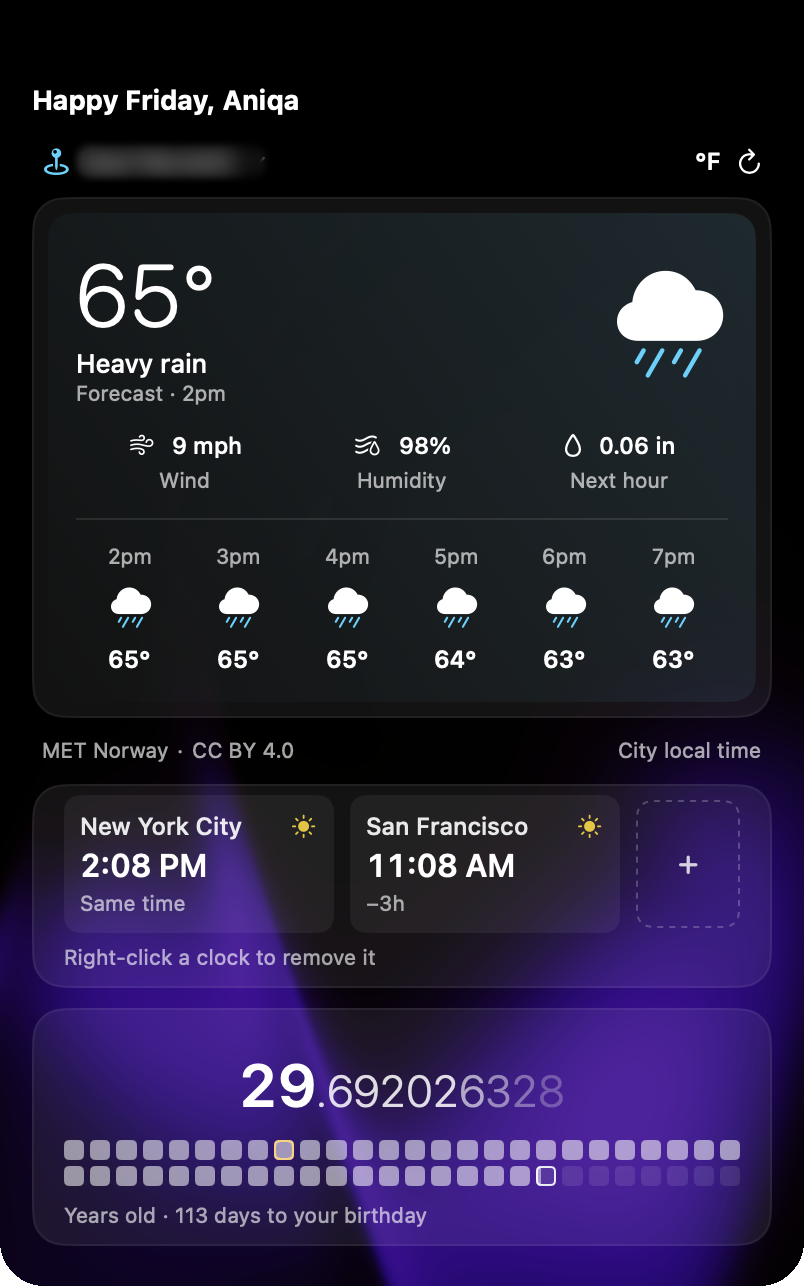
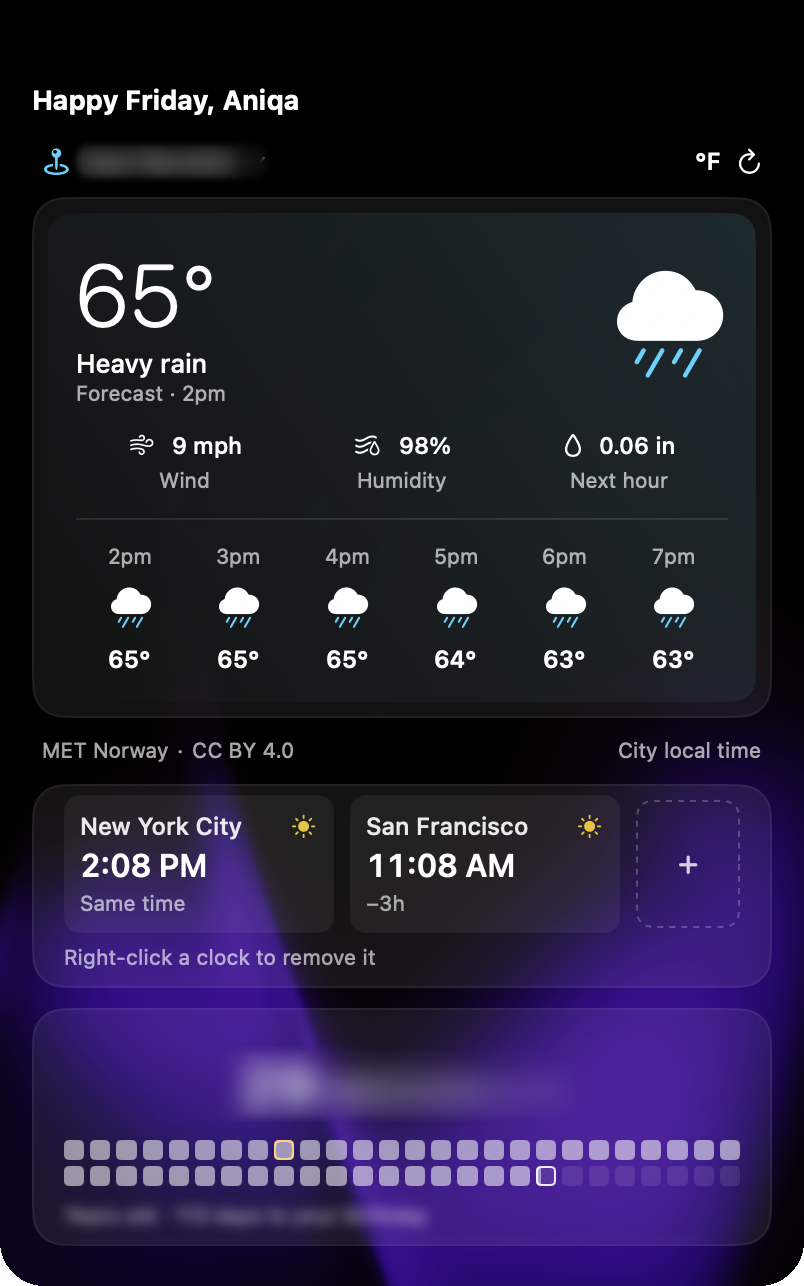
tighten review + new tldr, blur my age in weather pic

Changed region(s): [[0.2799, 0.8087, 0.7152, 0.8709], [0.0622, 0.9331, 0.5286, 0.9642]]

diff --git a/src/content/reviews/notchabove/index.md b/src/content/reviews/notchabove/index.md
@@ -30,65 +30,63 @@ screenshotAlt: 'The NotchAbove pet panel hanging from the notch: a black cat sit
 
 ## TL;DR
 
-I'd always overlooked the notch. I had only kept the time visible in the notch so the menu bar icons on
-the right side could have extra room, and didn't think more of it.
+I never really used the MacBook notch. I didn't even know it could do more than show the time, so it just held my
+clock to give my menu bar icons more room.
 
 NotchAbove fills it with the things I reach for all day: audio switching, my AI coding tools, Git, gentle reminders, a
-shelf for files and a (cute) black cat named Bombay. It's packed with features ![NotchAbove's list of features, each with a blue icon: Output, Auto-Switch, Scenes, Calls, Apps, Focus, Windows, System, Coding, Affirmations, Eyes, Shelf, Clipboard, Todo, World, Camera, Tools, Notes, Pet care, Git, Sales and Games](./feature-list.png 'note: Every feature, from Output to Games') but feels light and native, it's one of
-the few apps that genuinely brings me joy, and it's easy to fit into your workflow. It also freed up my menu bar
-straight away: I deleted Raycast and Vorssaint.
+shelf for files and a (cute) black cat named Bombay. It's packed with features ![NotchAbove's list of features, each with a blue icon: Output, Auto-Switch, Scenes, Calls, Apps, Focus, Windows, System, Coding, Affirmations, Eyes, Shelf, Clipboard, Todo, World, Camera, Tools, Notes, Pet care, Git, Sales and Games](./feature-list.png 'note: Every feature, from Output to Games') but feels light and
+native, it's one of the few apps that genuinely brings me joy, and it's easy to fit into your workflow. It also freed
+up my menu bar straight away: I deleted Raycast and Vorssaint.
 
 ## First look
 
-The download instructions were easy, but I had to take an extra step and strip the quarantine flag before the app would
-open on my MacBook. That's happened with almost every indie or non-App Store app I've tried, so it's not a knock on
-NotchAbove.
+The download instructions were easy, but I had to strip the quarantine flag before it would open on my MacBook.
+That's happened with almost every indie or non-App Store app I've tried, so it's not a knock on NotchAbove.
 
-I first downloaded NotchAbove for the calendar view, volume control, webcam preview and a notch I could style. I
-actually missed that it comes with a dozen other useful features, because I was hooked halfway through the landing
-page and didn't bother reading the rest. That many features would usually overwhelm me, but each one is opt-in ![NotchAbove's Tabs in the notch settings, 15 on: Output, Calls, Apps, Coding and Eyes switched on, and Media, Focus, Windows and Affirmations switched off, each with what it includes underneath](./settings-tabs.png 'note: Switching tabs on and off, 15 on here'), so I
-can easily keep just what I'll use.
+I first downloaded NotchAbove for the calendar view, volume control, webcam preview and a notch I could style. I was
+hooked halfway through the landing page and never read the rest, so I missed a dozen other useful features. That many
+features would usually overwhelm me, but each one is opt-in ![NotchAbove's Tabs in the notch settings, 15 on: Output, Calls, Apps, Coding and Eyes switched on, and Media, Focus, Windows and Affirmations switched off, each with what it includes underneath](./settings-tabs.png 'note: Switching tabs on and off, 15 on here'), so I keep just what I use.
 
-Finding Bombay, a cat companion, was also such a pleasant surprise. Instead of opening my phone for half a
-TikTok between meetings, I can spend that time looking after her, and she peeks out of the notch (if you want her to)
-without being distracting.
+Finding Bombay, a cat companion, was also such a pleasant surprise. Instead of opening my phone for half a TikTok
+between meetings, I can spend that time looking after her, and she peeks out of the notch (if you want her to) without
+being distracting.
 
 ## What I liked
 
 1. **The pet.** I'm a sucker for a good mascot or companion _(you might have noticed the one on this site)_. I like my
    tools minimal, but a well-done Easter egg brings real joy, and the pet care is my favorite part ![Bombay the black cat licking a paw in a rainy room, saying "...thank you. Don't tell anyone.", above the Pet, Feed, Water and Play buttons and today's care rings](./pet-care-rain.png 'note: Bombay on a rainy day, just after a pet').
-   Collecting gifts for Bombay gives me a reason to come back, and it's a healthier break than doomscrolling.
+   Collecting gifts for Bombay gives me a reason to come back and not lose time doomscrolling.
 
    ![NotchAbove's companion picker: Bombay (selected), Turkish Van, Orange Tabby, Silver Tabby, Golden Retriever, Husky, Labrador, Shiba Inu, Capybara, Ghost, Penguin, Baby Dragon, Fox, Bunny, Red Panda and Panda](./companions.png)
    _All sixteen companions, from Bombay to a baby dragon_
 
-2. **Volume control.** This is what got me interested. Switching between Zoom and Spotify keeps changing my audio,
-   Loom videos on bug reports change it again, and moving between my laptop and desktop makes it worse. Here I can set
-   each device's volume before I switch
-   ![The Output panel: MacBook Pro Speakers, Microsoft Teams Audio, LoomAudioDevice and ZoomAudioDevice, each with its own volume slider, a saved "meetings" scene, the output locked to the speakers, and AirPods ready to connect](./output-volume.png 'note: Every output with its own volume, plus saved scenes')
-   and get back to it with a hover and a click. It's
-   clearer than the Mac's own volume handling, and I don't have to fight it.
-3. **Reminders that don't feel wrong.** I hate water and stand-up reminders in the usual notification spot; they
-   shouldn't take the same space as a message or calendar event. NotchAbove nudges me gently from the notch, in the
-   middle of the screen, and I actually take them in instead of closing them (even if I finish what I'm doing first).
+2. **Volume control.** Switching between Zoom and Spotify keeps changing my audio, Loom videos on bug reports change it
+   again, and moving between my laptop and desktop makes it worse. Here I can set each device's volume before I switch
+   ![The Output panel: MacBook Pro Speakers, Microsoft Teams Audio, LoomAudioDevice and ZoomAudioDevice, each with its own volume slider, a saved "meetings" scene, the output locked to the speakers, and AirPods ready to connect](./output-volume.png 'note: Every output with its own volume, plus saved scenes') and get back to it with a hover and a click. It's clearer than the Mac's own volume handling, and
+   I don't have to fight it.
+3. **Reminders that don't feel wrong.** Other apps have reminders too, but I hate getting water and stand-up reminders
+   in the usual notification spot; they shouldn't take the same space as a message or calendar event. NotchAbove
+   nudges me gently from the notch, and I actually take them in (even if I finish what I'm doing first).
    - Water sits next to a Pomodoro timer, a countdown and a stopwatch ![The focus panel: a Pomodoro timer set to 25 minutes, a countdown, a stopwatch and a hydration glass at 5 of 8](./focus-timers.png 'note: Pomodoro, countdown, stopwatch and hydration').
-   - The eye breaks matter most to me, because I have chronic dry eyes. After long stretches of coding or debugging, the reminder has me blinking more, and it comes with short exercises ![The eye breaks panel: look 20 feet away for 20 seconds every 45 minutes, next in 26:49, with Blink, Figure 8, Near & far and Palming exercises](./eye-breaks.png 'note: Eye breaks every 45 minutes, with short exercises')
-     ![The Near & far exercise filling the screen: a glowing yellow dot on a grid that runs to the horizon, with the instruction to look at your thumb a hand's length away](./eye-exercise-near-far.png 'note: The Near & far exercise takes over the whole screen').
-   - I can also see where my time goes: how long I've been on screen today, and in which apps
-     ![The system panel: battery at 99%, CPU, memory and disk rings, keep awake, and 1h 29m on screen today across Arc, Visual Studio Code and GitHub](./system-stats.png 'note: Screen time today, with battery and system stats').
-4. **Git at a glance.** Lately I'm cleaning up old projects for my portfolio, and seeing my Git status
-   ![The Git panel: three repositories, all clean and up to date, no open pull requests, and a 14-day commit streak](./git-repos.png 'note: Every repo at a glance, plus pull requests and a commit streak') means I don't forget to commit or clean a branch up.
+   - The eye breaks matter most, since I have chronic dry eyes. After long stretches of coding or debugging, the
+     reminder has me blinking more, and it comes with short exercises ![The eye breaks panel: look 20 feet away for 20 seconds every 45 minutes, next in 26:49, with Blink, Figure 8, Near & far and Palming exercises](./eye-breaks.png 'note: Eye breaks every 45 minutes, with short exercises') ![The Near & far exercise filling the screen: a glowing yellow dot on a grid that runs to the horizon, with the instruction to look at your thumb a hand's length away](./eye-exercise-near-far.png 'note: The Near & far exercise takes over the whole screen').
+   - I can also see where my time goes: how long I've been on screen today, and in which apps ![The system panel: battery at 99%, CPU, memory and disk rings, keep awake, and 1h 29m on screen today across Arc, Visual Studio Code and GitHub](./system-stats.png 'note: Screen time today, with battery and system stats').
+4. **Git at a glance.** Lately I'm cleaning up old projects for my portfolio, and seeing my Git status ![The Git panel: three repositories, all clean and up to date, no open pull requests, and a 14-day commit streak](./git-repos.png 'note: Every repo at a glance, plus pull requests and a commit streak')
+   means I don't forget to commit or clean a branch up.
 5. **AI agent usage.** Tracking Claude Code, Codex and Cursor in one place ![The Coding panel for Codex: a weekly usage limit at 100%, an activity heatmap, 3.7M tokens, and no sessions right now](./coding-usage.png 'note: Usage limits and an activity heatmap, per tool') is major. A quick look at
    my limits keeps me on track.
-6. **The shelf.** I handle files for different clients at work, and my Downloads folder gets ugly fast. Now I put
-   what I need for the day or week on the shelf ![The shelf holding two documents, with Drag all, AirDrop and Clear buttons](./shelf.png 'note: The shelf, with two files on it (their names blurred)') instead of sifting through Downloads.
-7. **Calendar view.** Work has my day time-blocked to the minute, so having it in the notch helps ![The Calls panel: a camera check, no more meetings today, a November calendar with Monday's meetings, and a list of microphones](./calls-calendar.png 'note: The calendar with a camera check and microphones (meeting names blurred)').
-8. **Clipboard history.** I was reluctantly using Raycast for this. It's built around keyboard shortcuts, and I
-   never enjoyed it because I'd always use Spotlight to find my clipboard history anyway. Now my history is a hover
-   away in the notch ![The clipboard panel: recent copies from Visual Studio Code and Arc, including a localhost link, a branch name and git commands](./clipboard.png 'note: Clipboard history, newest first') ![Clipboard settings: keep clipboard history, keep the last 100 items, and a note that it never keeps passwords or keys and stays on this Mac](./settings-clipboard.png 'note: It skips passwords and anything that looks like a key').
-9. **Little extras.** The birthday countdown ![The weather panel: heavy rain at 65°, an hourly forecast, clocks for New York and San Francisco, and an age counter with days to my birthday](./weather-clocks-birthday.png 'note: Weather, world clocks and the birthday countdown') is awesome, and the camera preview ![The camera check with the camera off, and its effects and reactions: hearts, likes, balloons, rain, confetti, fireworks and lasers](./camera-effects.png 'note: The camera check, with effects and reactions') reminds me to switch to my webcam instead of joining a call on the MacBook
-   one, and to check my lighting.
-10. **Make it yours.** There are 21 tabs, which felt like a lot at first, but you can remove what you don't need. You can customize the look ![NotchAbove's settings window on the Notch page: curved or square corners, hiding the notch, how the panel closes, and the shine border](./settings-notch.png 'note: Notch settings, from the corners to the shine border') and pretty much everything else, and add shortcuts if you want them _(I won't)_ ![NotchAbove's shortcut settings: cycle output device set to Option Command O, and open the notch, quick switcher, mute microphone and show or hide lyrics waiting for a shortcut](./settings-shortcuts.png 'note: Shortcuts, like cycling the output device from any app').
+6. **The shelf.** I handle files for different clients at work, and my Downloads folder gets ugly fast. Now what I
+   need for the week sits on the shelf ![The shelf holding two documents, with Drag all, AirDrop and Clear buttons](./shelf.png 'note: The shelf, with two files on it (their names blurred)') instead.
+7. **Calendar view.** Work has my day time-blocked to the minute, and I'm keeping up with my husband's changing
+   schedule too, so having it all in the notch helps ![The Calls panel: a camera check, no more meetings today, a November calendar with Monday's meetings, and a list of microphones](./calls-calendar.png 'note: The calendar with a camera check and microphones (meeting names blurred)').
+8. **Clipboard history.** I reluctantly used Raycast for this, but it's built around keyboard shortcuts, and I'd end up
+   in Spotlight anyway. Now my history is a hover away in the notch and much easier for me to get to ![The clipboard panel: recent copies from Visual Studio Code and Arc, including a localhost link, a branch name and git commands](./clipboard.png 'note: Clipboard history, newest first')
+   ![Clipboard settings: keep clipboard history, keep the last 100 items, and a note that it never keeps passwords or keys and stays on this Mac](./settings-clipboard.png 'note: It skips passwords and anything that looks like a key').
+9. **Little extras.** The birthday countdown ![The weather panel: heavy rain at 65°, an hourly forecast, clocks for New York and San Francisco, and an age counter with days to my birthday](./weather-clocks-birthday.png 'note: Weather, world clocks and the birthday countdown (my age blurred)') is awesome, and the camera preview
+   ![The camera check with the camera off, and its effects and reactions: hearts, likes, balloons, rain, confetti, fireworks and lasers](./camera-effects.png 'note: The camera check, with effects and reactions') reminds me to switch to my webcam and check my lighting before a call.
+10. **Make it yours.** There are 21 tabs with truly useful features. It felt like a lot at first, but you can remove
+    what you don't need. You can customize the look ![NotchAbove's settings window on the Notch page: curved or square corners, hiding the notch, how the panel closes, and the shine border](./settings-notch.png 'note: Notch settings, from the corners to the shine border') and pretty much everything else, and add
+    shortcuts if you want them _(I won't)_ ![NotchAbove's shortcut settings: cycle output device set to Option Command O, and open the notch, quick switcher, mute microphone and show or hide lyrics waiting for a shortcut](./settings-shortcuts.png 'note: Shortcuts, like cycling the output device from any app').
 
     ![NotchAbove's tab grid: three rows of icons, with the paw-print Pet care tab selected](./tabs.png)
     _The tab grid, with Pet care open_
@@ -98,28 +96,29 @@ without being distracting.
 ## What I didn't use
 
 1. **Window management.** ![The windows panel: buttons to snap the front window to the left or right half, top or bottom, full screen, centred, onto another display or back, and a Laptop only desk layout with a Save current button](./windows.png 'note: Snapping windows and saving desk layouts') I don't really manage windows anyway.
-2. **Music.** Controls and lyrics in the notch ![The lyrics view in the notch, the lines blurred, with a husky companion peeking up from the bottom and singing along](./music-lyrics-husky.png 'note: Lyrics in the notch, with the husky singing along (the words blurred)') are super cool, but not for my work laptop,
-   beyond a quick play or pause.
+2. **Music.** Controls and lyrics in the notch ![The lyrics view in the notch, the lines blurred, with a husky companion peeking up from the bottom and singing along](./music-lyrics-husky.png 'note: Lyrics in the notch, with the husky singing along (the words blurred)') are super cool, but for my work laptop, a quick
+   play and pause is good enough.
 3. **Todos.** ![The todo panel: a task to take screenshots of notchabove.xyz with a 3:07 PM reminder, and writing this review done today](./todo.png 'note: The todo list, reminding me to take these screenshots') Glad it's there, but work keeps me on Linear and my personal tasks live on my phone.
 4. **Tools.** ![The calculator in Tools: 95,000 + 346,000 = 441,000, with a Copy button](./calculator.png 'note: The calculator in Tools') Handy if you need exchange rates quickly (they're up to 12 hours old). I like that
-   conversions get their own space, where Raycast folds them into its search.
+   conversions get their own space, whereas Raycast folds them into its search.
 5. **Sales.** ![Sales settings: a Dodo Payments API key and mode, and new-sale alerts that show in the notch](./settings-sales.png 'note: Sales from Dodo Payments, with alerts in the notch') Not for me yet, but if I ever become an indie builder, a notification for every sale
    must be a nice dopamine hit.
-6. **Games.** ![The games: Dragon Flap, Stack, 404 Run, Sky Hop and Treat Catch, each with a best score of 0](./settings-games.png 'note: Five games, all still at a best score of 0') I've been busy with my pet, but as a gamer, I'll reach for these when I finally get a
-   day to be bored.
-7. **Affirmations.** ![The affirmation panel: "Keep going. You're closer than it feels.", shown every 2 hours, with Show now and Another buttons and a box to write your own](./affirmations.png 'note: An affirmation, shown every 2 hours') Nice if you want a little encouragement throughout the day.
+6. **Games.** ![The games: Dragon Flap, Stack, 404 Run, Sky Hop and Treat Catch, each with a best score of 0](./settings-games.png 'note: Five games, all still at a best score of 0') I've been busy with my pet, but as a gamer, I'll reach for these once I'm bored
+   enough.
+7. **Affirmations.** ![The affirmation panel: "Keep going. You're closer than it feels.", shown every 2 hours, with Show now and Another buttons and a box to write your own](./affirmations.png 'note: An affirmation, shown every 2 hours') Nice if you want a little encouragement throughout the day, but personally, I'd
+   rather not add the noise.
 
 ## Small ideas
 
 1. Show usage for more than one account. I'd love to see my AI agent usage across accounts, like my personal and work
    Claude accounts, side by side.
-2. Save notes ![The notes panel: two notes as tabs, an empty note, and buttons to dictate, copy and delete](./notes.png 'note: Notes, typed or dictated') as Markdown files. I take notes in Obsidian, and so many people use Markdown editors as well; having
-   these notes land as Markdown files inside my own notes system would be awesome, and they'd sync to my phone and
-   iPad.
+2. Save notes ![The notes panel: two notes as tabs, an empty note, and buttons to dictate, copy and delete](./notes.png 'note: Notes, typed or dictated') as Markdown files. I take notes in Obsidian, like so many people with Markdown editors. Having
+   these land as Markdown files in my own notes would be awesome, and they'd sync to my phone and iPad.
 3. Add app management. An uninstaller, a cache cleaner and app updates would make it an even fuller replacement for
-   Vorssaint (this is what appealed to me about it).
+   Vorssaint. That's what originally appealed to me about it, so it's all I'm missing at the moment.
 
 ## Who it's for
 
 Anyone, technical or not, whose notch is going to waste, who wants a calm, native-feeling home for everyday tools, and
-especially anyone who loves a good mascot. I'm shocked one person made something this thoughtful. It is my favorite all-in-one productivity tool for 2026 and likely 2027.
+especially anyone who loves a good mascot. I'm shocked one person made something this thoughtful. It's my favorite
+all-in-one productivity tool for 2026 and likely 2027.
